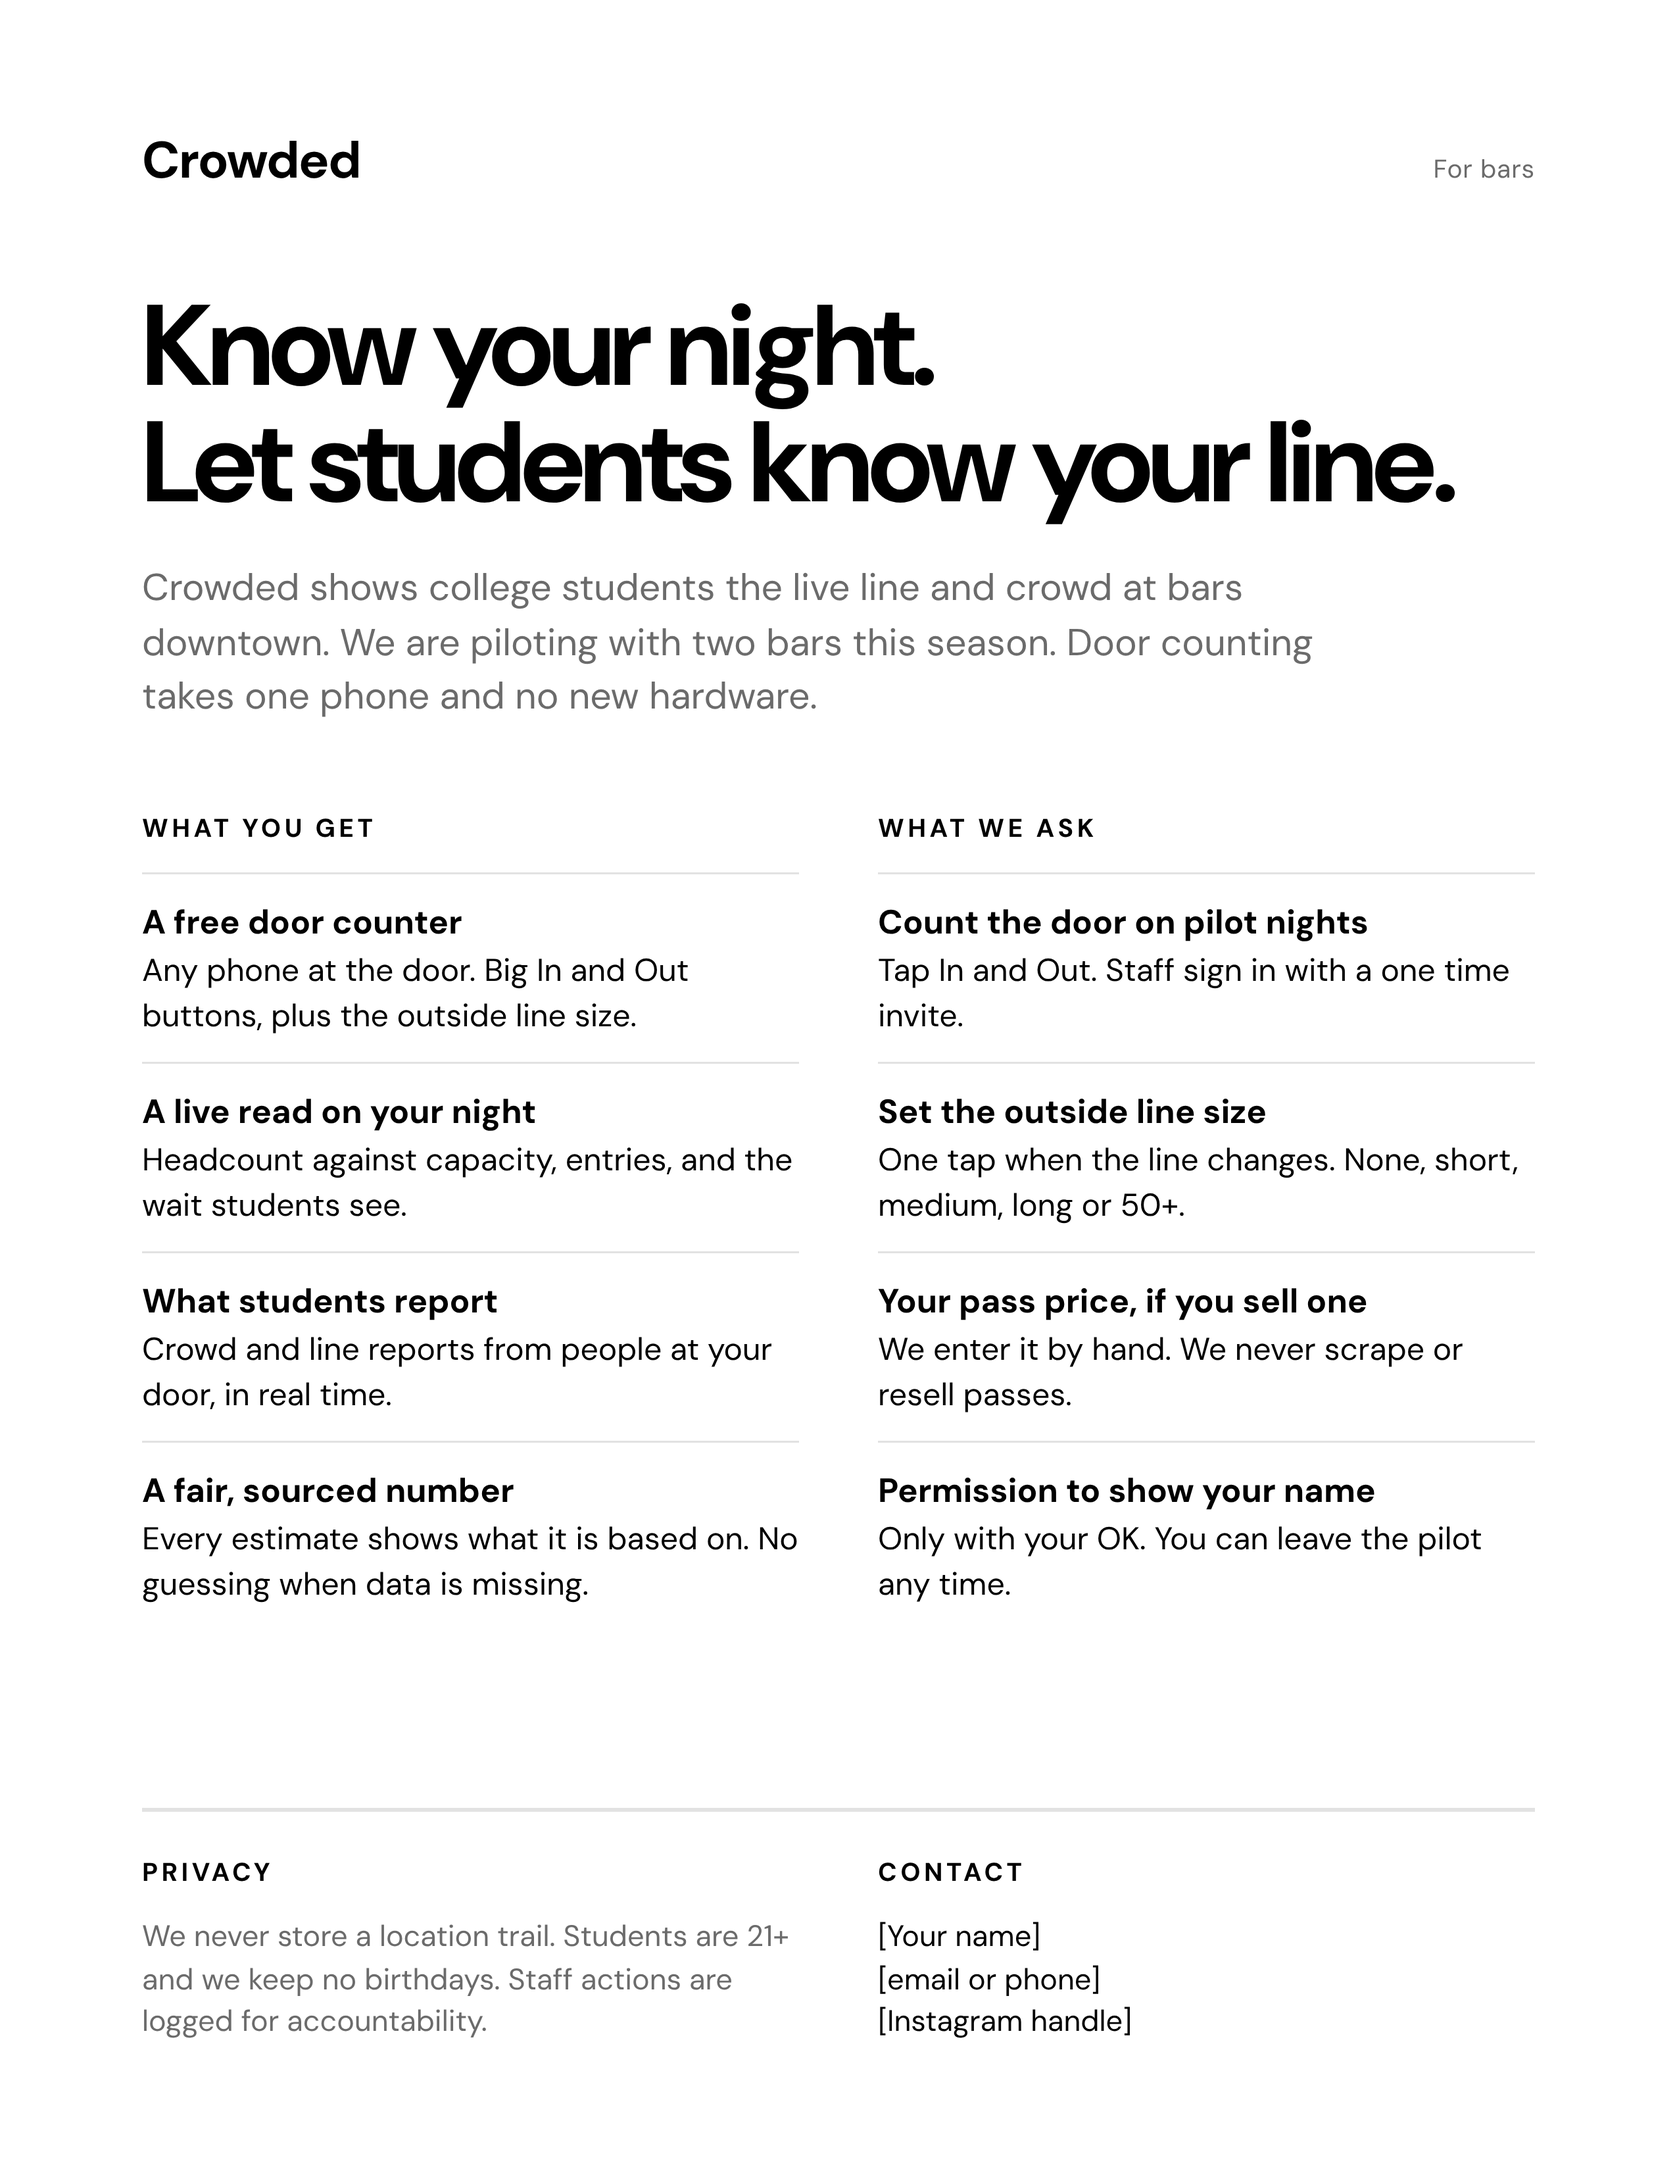
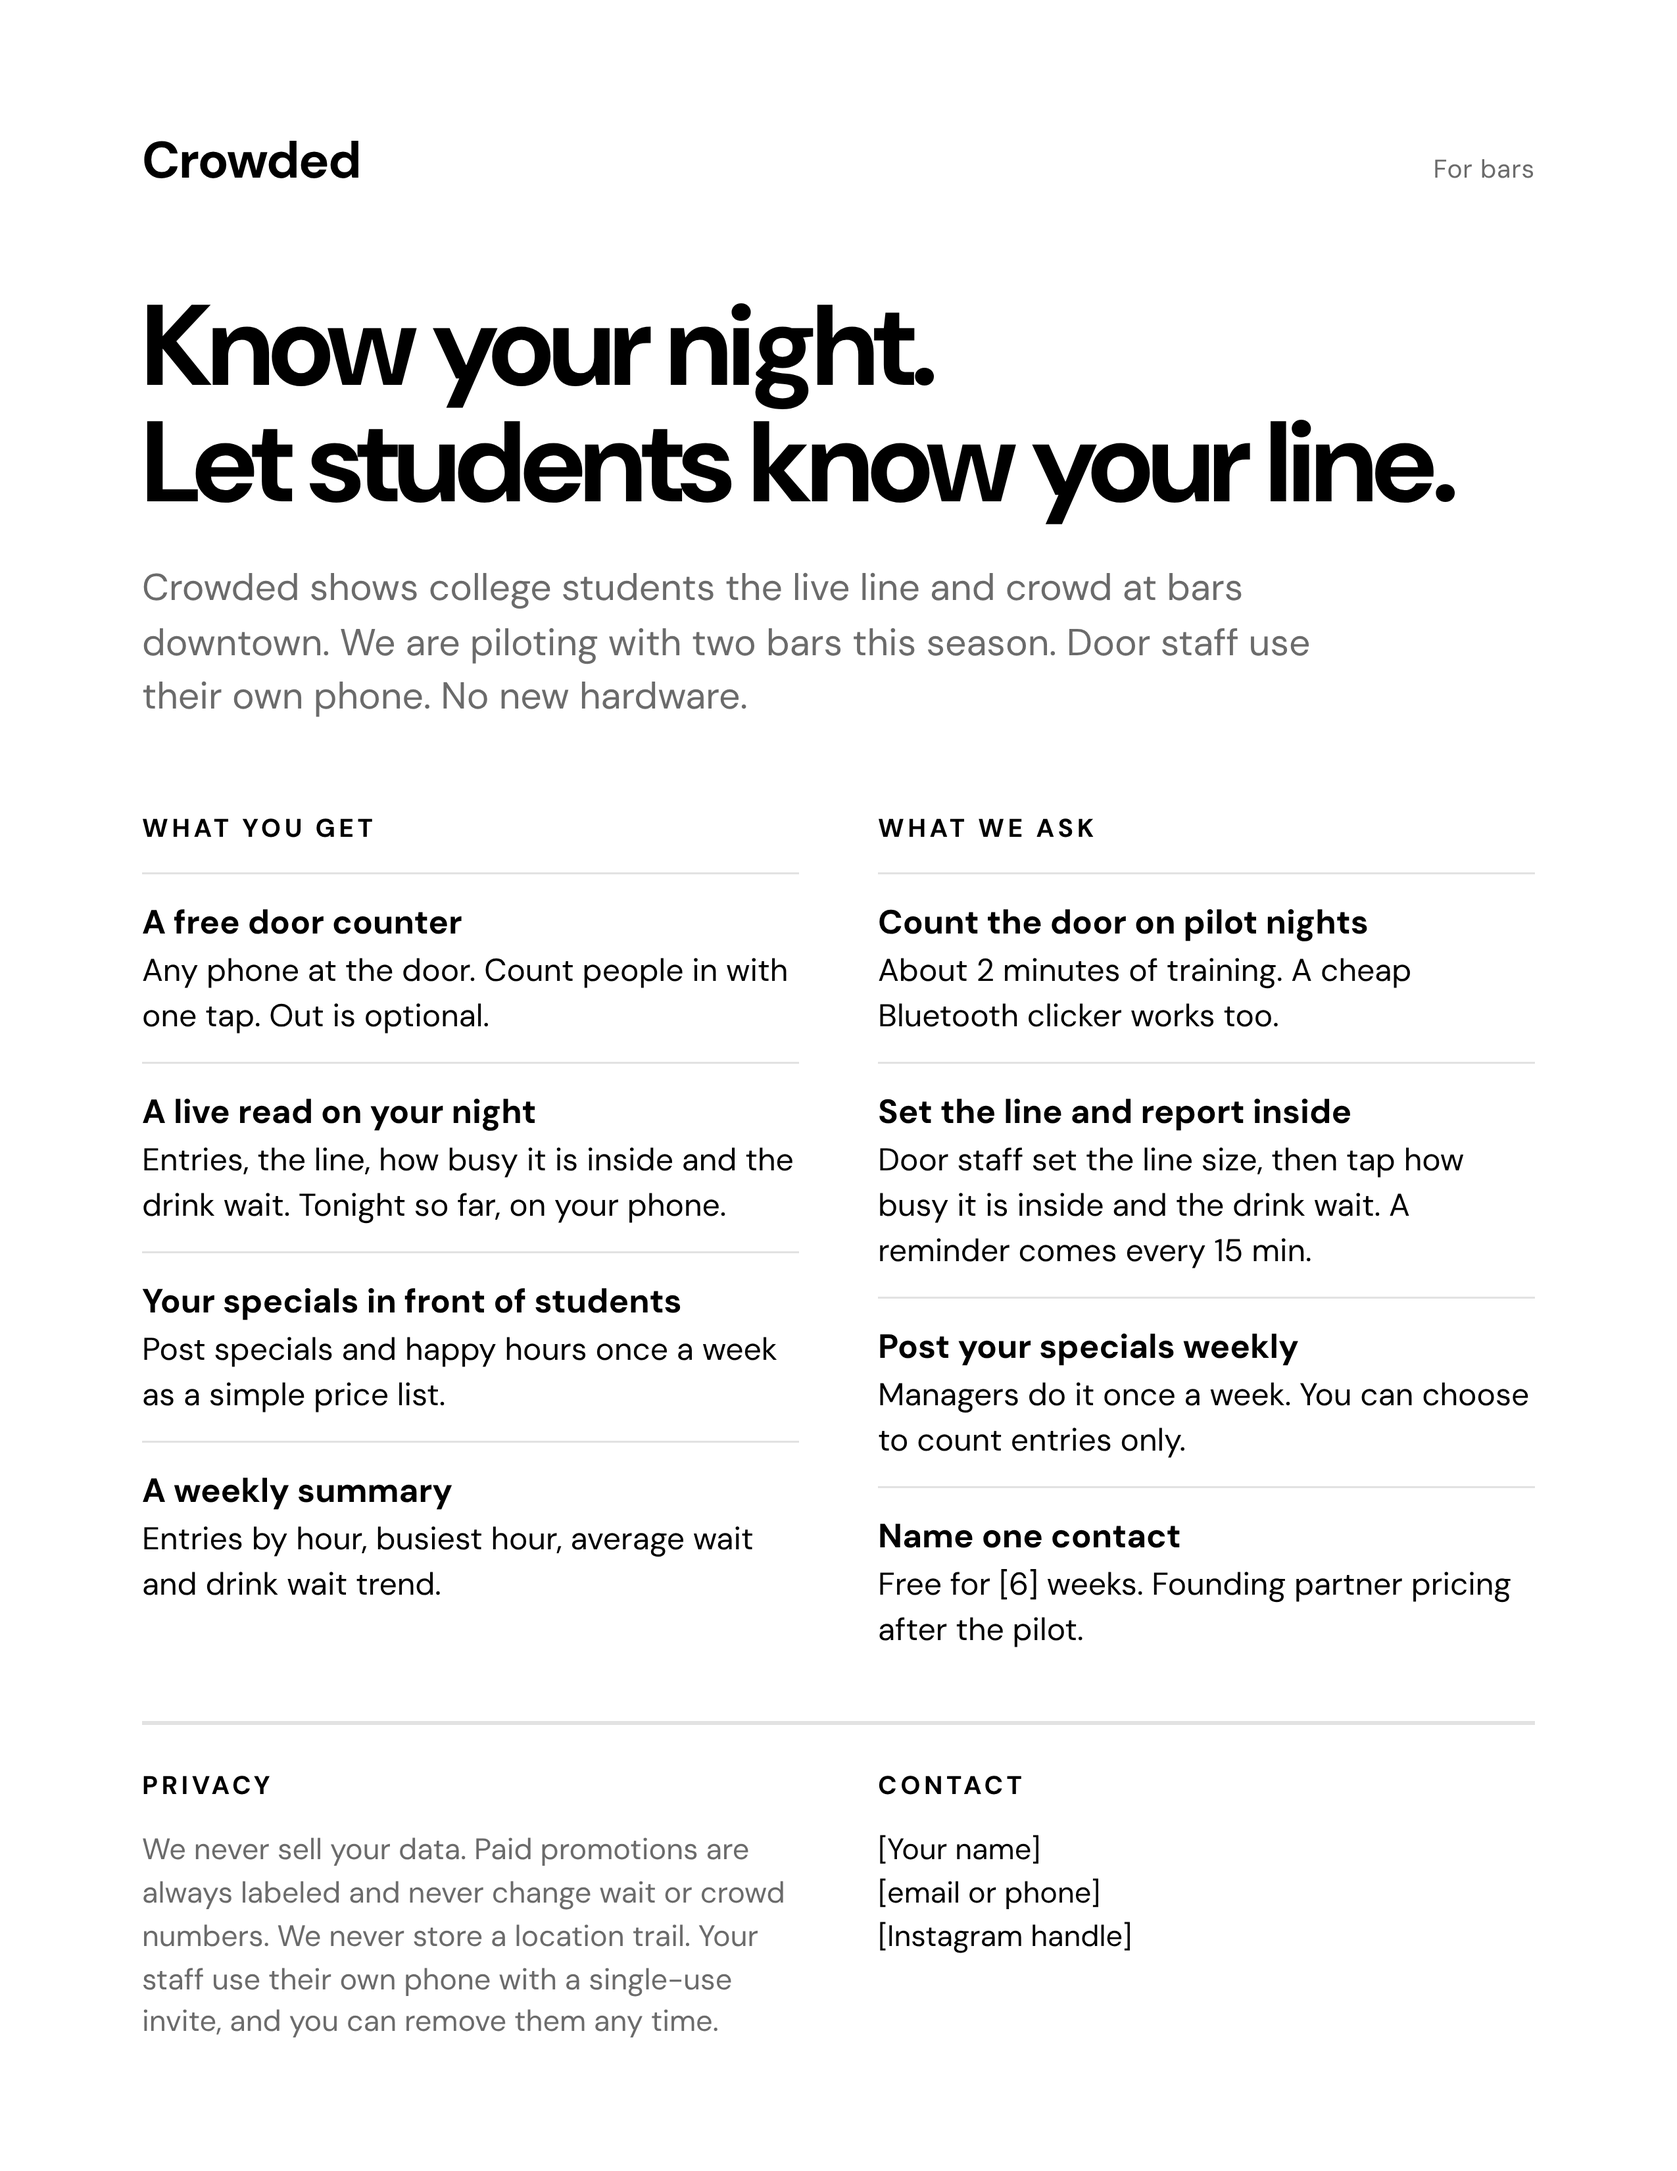
Marketing: update bar one pager and DM for new staff model
Door staff count in, set the line and report inside conditions. Managers post specials weekly. No door code. Free pilot. Same trust points.

Claude-Session: https://claude.ai/code/session_01SbuuWf2ZB1HkurjV4Tqpyn

diff --git a/marketing/templates/kit.html b/marketing/templates/kit.html
@@ -234,31 +234,31 @@
 <section class="frame letter light" data-out="for-bars-one-pager" data-scale="3">
   <div class="top"><span class="mark" style="font-size:26px">Crowded</span><span class="tiny muted" style="font-size:13px">For bars</span></div>
   <h1 class="h-op" style="margin-top:48px">Know your night.<br>Let students know your line.</h1>
-  <p class="lede-op muted" style="margin-top:20px;max-width:600px">Crowded shows college students the live line and crowd at bars downtown. We are piloting with two bars this season. Door counting takes one phone and no new hardware.</p>
+  <p class="lede-op muted" style="margin-top:20px;max-width:600px">Crowded shows college students the live line and crowd at bars downtown. We are piloting with two bars this season. Door staff use their own phone. No new hardware.</p>
   <div class="cols" style="margin-top:44px">
     <div>
       <h4>What you get</h4>
       <ul>
-        <li><b>A free door counter</b>Any phone at the door. Big In and Out buttons, plus the outside line size.</li>
-        <li><b>A live read on your night</b>Headcount against capacity, entries, and the wait students see.</li>
-        <li><b>What students report</b>Crowd and line reports from people at your door, in real time.</li>
-        <li><b>A fair, sourced number</b>Every estimate shows what it is based on. No guessing when data is missing.</li>
+        <li><b>A free door counter</b>Any phone at the door. Count people in with one tap. Out is optional.</li>
+        <li><b>A live read on your night</b>Entries, the line, how busy it is inside and the drink wait. Tonight so far, on your phone.</li>
+        <li><b>Your specials in front of students</b>Post specials and happy hours once a week as a simple price list.</li>
+        <li><b>A weekly summary</b>Entries by hour, busiest hour, average wait and drink wait trend.</li>
       </ul>
     </div>
     <div>
       <h4>What we ask</h4>
       <ul>
-        <li><b>Count the door on pilot nights</b>Tap In and Out. Staff sign in with a one time invite.</li>
-        <li><b>Set the outside line size</b>One tap when the line changes. None, short, medium, long or 50+.</li>
-        <li><b>Your pass price, if you sell one</b>We enter it by hand. We never scrape or resell passes.</li>
-        <li><b>Permission to show your name</b>Only with your OK. You can leave the pilot any time.</li>
+        <li><b>Count the door on pilot nights</b>About 2 minutes of training. A cheap Bluetooth clicker works too.</li>
+        <li><b>Set the line and report inside</b>Door staff set the line size, then tap how busy it is inside and the drink wait. A reminder comes every 15 min.</li>
+        <li><b>Post your specials weekly</b>Managers do it once a week. You can choose to count entries only.</li>
+        <li><b>Name one contact</b>Free for [6] weeks. Founding partner pricing after the pilot.</li>
       </ul>
     </div>
   </div>
   <div class="grow"></div>
   <div class="rule"></div>
   <div class="cols" style="margin-top:22px">
-    <div><h4>Privacy</h4><p class="lede-op muted" style="font-size:15px">We never store a location trail. Students are 21+ and we keep no birthdays. Staff actions are logged for accountability.</p></div>
+    <div><h4>Privacy</h4><p class="lede-op muted" style="font-size:15px">We never sell your data. Paid promotions are always labeled and never change wait or crowd numbers. We never store a location trail. Your staff use their own phone with a single-use invite, and you can remove them any time.</p></div>
     <div><h4>Contact</h4><p class="lede-op" style="font-size:15px">[Your name]<br>[email or phone]<br>[Instagram handle]</p></div>
   </div>
 </section>

diff --git a/marketing/COPY.md b/marketing/COPY.md
@@ -125,8 +125,12 @@ consumed in ads (Meta's alcohol ad rules apply to paid posts, so organic is safe
 ## DM to a pilot bar manager
 > Hi, I'm [name], a student building Crowded. It shows students the live line and crowd at bars
 > downtown. We're piloting with two bars and would love yours to be one.
-> You get a free door counter on any phone (In, Out and line size) and a live read on your night.
-> We ask your door staff to count on pilot nights. We only show your name with your OK, and you
-> can stop any time. Can I stop by for 10 minutes this week? I'll bring a one pager.
+> You get a free door counter on any phone. Door staff count people in with one tap, set the
+> line, and tap how busy it is inside and the drink wait. Your manager posts specials once a
+> week so students see them. There is no door code and no hardware. The pilot is free for [6]
+> weeks. We never sell your data, paid promotions are always labeled and never change wait or
+> crowd numbers, and we never store a location trail. Your staff use their own phone with a
+> single-use invite, and you can remove them any time. We only show your name with your OK.
+> Can I stop by for 10 minutes this week? I'll bring a one pager.
 
 Attach `for-bars-one-pager.png` (fill in the contact lines first).
